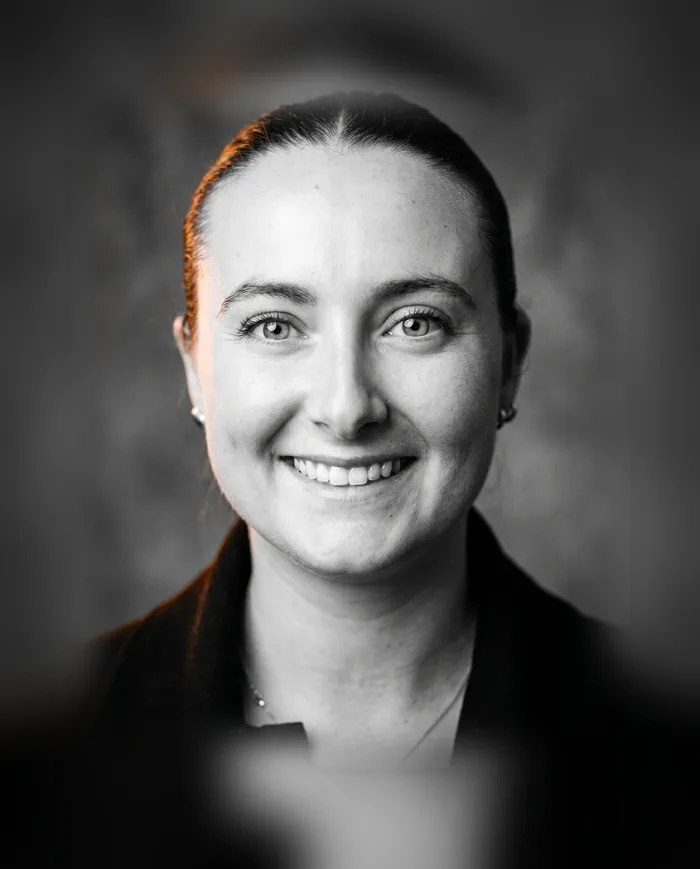
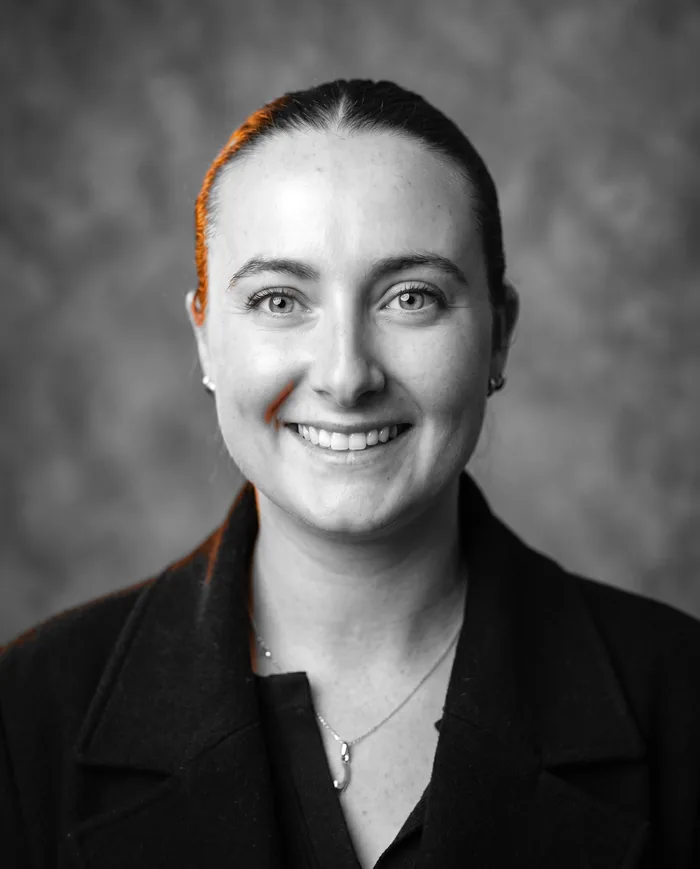
Fix mobile reveal (tall grids stayed hidden) + Courtney B&W
- scripts.html: reveal observer threshold 0.12 -> 0 so tall stacked grids
  (team/partner grids on mobile) reliably get the .in class and show
- Courtney Little: outpaint to extend backdrop (smaller head, no fake border),
  desaturated to B&W with the warm rim kept to match the other headshots

Claude-Session: https://claude.ai/code/session_01Xdb7zDbyLPyXMVARSe5KE5

diff --git a/_partials/scripts.html b/_partials/scripts.html
@@ -108,7 +108,7 @@
       entries.forEach(e => {
         if (e.isIntersecting) { e.target.classList.add('in'); io.unobserve(e.target); }
       });
-    }, { threshold: 0.12, rootMargin: '0px 0px -8% 0px' });
+    }, { threshold: 0, rootMargin: '0px 0px -8% 0px' });
     document.querySelectorAll('.reveal, .reveal-stagger').forEach(el => io.observe(el));
 
     // Count-up for [data-count] numbers
